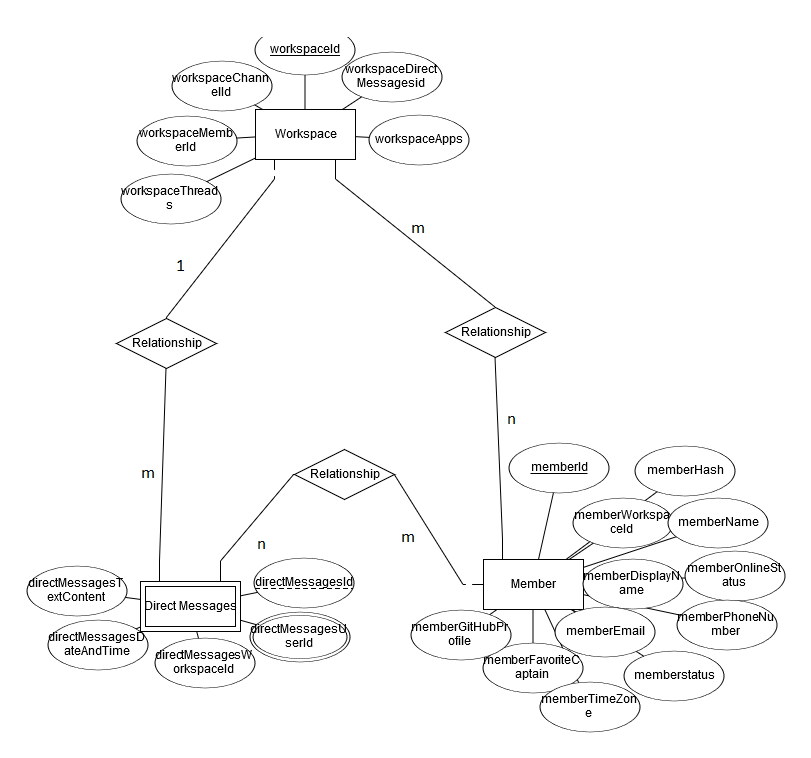
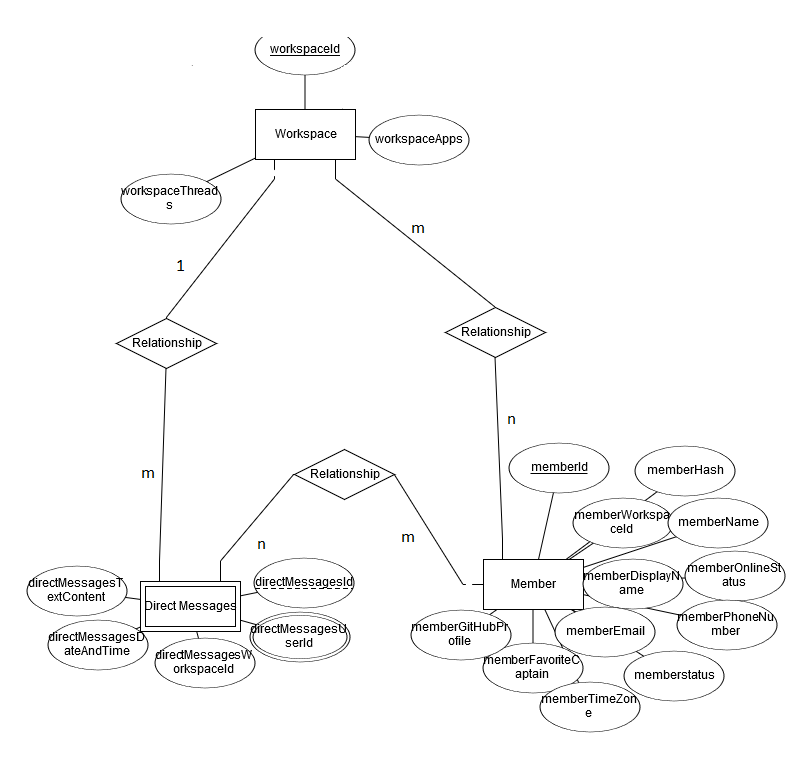
Corrected some grammar errors and edited ERD to exclude deprecated items.

Changed region(s): [[0.1541, 0.091, 0.3391, 0.2124], [0.4316, 0.0607, 0.5549, 0.1214]]

diff --git a/epic/use-case.php b/epic/use-case.php
@@ -6,30 +6,30 @@
 	</head>
 	<body>
 		<h2>User Story:</h2>
-			<p> Dylan needs to respond to a student's question.</p>
+		<p> Dylan needs to respond to a student's question.</p>
 		<h2>Use Case:</h2>
-			<h3>Title:</h3>
-				<p> Question and answer via direct message</p>
-			<h3>Description:</h3>
-				<p> Dylan wants to answer a student's question about their Data Design Project. </p>
-			<h3>Name of user and their role:</h3>
-				<p>Dylan: instructor leading the cohort into developing and understanding websites and web applications.</p>
-			<h3>Usage preconditions:</h3>
-				<p>Must have a slack account, be logged in and under the correct workspace.</p>
-			<h3>User postconditions:</h3>
-				<p>Sent a direct message response to a student.</p>
-			<h3>Interaction flow:</h3>
-				<ul>
-					<li>Dylan enters https://deepdivecoding.slack.com/ on his Android phone or opens the slack mobile app.</li>
-					<li>Server returns the deepdivecoding main page.</li>
-					<li>Dylan's dashlane or slack mobile app automatically logs him in.</li>
-					<li>Server returns the deepdivecoding main page with Dylan logged in.</li>
-					<li>Dylan clicks on the student's name under direct messages.</li>
-					<li>Server returns the back and forth direct messages between Dylan and the student.</li>
-					<li>Dylan types a response to the students question in the message field and sends.</li>
-					<li>Server returns the message he typed along with a notification pop up on the student's slack account.</li>
-				</ul>
-			<h3>Frequency of use: Multiple times a day.</h3>
-				<p></p>
+		<h3>Title:</h3>
+		<p> Question and answer via direct message.</p>
+		<h3>Description:</h3>
+		<p> Dylan wants to answer a student's question about their Data Design Project. </p>
+		<h3>Name of user and their role:</h3>
+		<p>Dylan: instructor leading the cohort into developing and understanding websites and web applications.</p>
+		<h3>Usage preconditions:</h3>
+		<p>Must have a slack account, be logged in and under the correct workspace.</p>
+		<h3>User postconditions:</h3>
+		<p>Sent a direct message response to a student.</p>
+		<h3>Interaction flow:</h3>
+		<ul>
+			<li>Dylan enters https://deepdivecoding.slack.com/ on his Android phone or opens the slack mobile app.</li>
+			<li>Server returns the deepdivecoding main page.</li>
+			<li>Dylan's dashlane or slack mobile app automatically logs him in.</li>
+			<li>Server returns the deepdivecoding main page with Dylan logged in.</li>
+			<li>Dylan clicks on the student's name under direct messages.</li>
+			<li>Server returns the back and forth direct messages between Dylan and the student.</li>
+			<li>Dylan types a response to the students question in the message field and sends.</li>
+			<li>Server returns the message he typed along with a notification pop up on the student's slack account.</li>
+		</ul>
+		<h3>Frequency of use:</h3>
+		<p>Multiple times a day.</p>
 	</body>
 </html>

diff --git a/epic/$dylanMcDonald.php b/epic/$dylanMcDonald.php
@@ -15,7 +15,7 @@
 			<li><b>Ethnicity:</b> Mixed</li>
 			<li><b>Occupation:</b> Captain, USS Turing</li>
 			<li><b>Favorite captain:</b> Jean-Luc Picard</li>
-			<li><b>Technology:</b> <i>Computer:</i>Self built Intel i7 with 32 GB RAM running Ubuntu Linux Bionic 18.04 and
+			<li><b>Technology:</b> <i>Computer</i> is a Self built Intel i7 with 32 GB RAM running Ubuntu Linux Bionic 18.04 and
 				<i>phone</i> is a Google Pixel XL 2 with Android 9.1.
 			</li>
 			<li><b>Attitude:</b> Playful so likes to leave funny gifs, links and emotes while conveying important and
